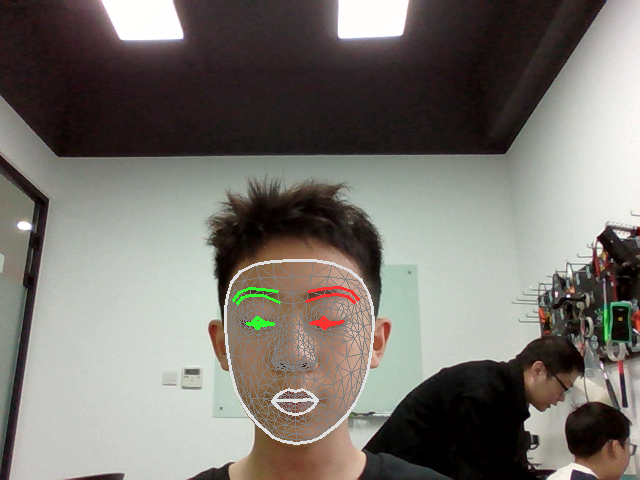
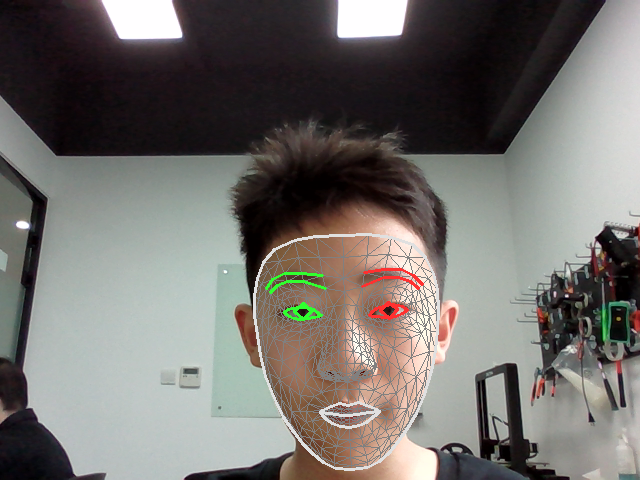
multi-threaded test.py, didn't do video flow, still had glitches

diff --git a/test.py b/test.py
@@ -1,3 +1,146 @@
+from tkinter import *
+from PIL import Image, ImageTk
 import time
-timestr = time.strftime("%H:%M:%S")
-print(timestr)
+import cv2
+import mediapipe as mp
+import math
+import threading
+
+data = "睁眼了"
+
+def gui():
+    window = Tk()
+    window.geometry("1000x800")
+
+    # The title bar
+    frame = Frame(window, width=1000, height=100)
+    img = Image.open("title.jpg")
+    reimg = img.resize((1000, 100))
+    newimg = ImageTk.PhotoImage(reimg)
+    # The video stream shown
+    frame2 = Frame(window, width=640, height=480)
+    img2 = Image.open("image.png")
+    newimg2 = ImageTk.PhotoImage(img2)
+    # pack the title bar
+    frame.pack(fill=BOTH, expand=True)
+    label1 = Label(frame, image=newimg)
+    label1.pack()
+    # pack the video stream
+    frame2.place(rely=0.5, relx=0.02, anchor=W)
+    label2 = Label(frame2, image=newimg2)
+    label2.pack()
+    # create and pack the results
+    label3 = Label(window, text=data, font=('Arial', 25), fg="#f00")
+    label3.place(rely=0.5, relx=0.95, anchor=E)
+    label4 = Label(window, text="状态:", font=('Arial', 25))
+    label4.place(rely=0.5, relx=0.8, anchor=E)
+    # create and pack the time
+    timestr = time.strftime("%H:%M:%S")
+    label5 = Label(window, text=timestr, font=('Arial', 10), fg="#555")
+    label5.place(rely=1, relx=1, anchor=SE)
+
+    # loop
+    while True:
+        label3 = Label(window, text=data, font=('Arial', 25), fg="#f00")
+        label3.place(rely=0.5, relx=0.95, anchor=E)
+        timestr = time.strftime("%H:%M:%S")
+        label5 = Label(window, text=timestr, font=('Arial', 10), fg="#555")
+        label5.place(rely=1, relx=1, anchor=SE)
+        window.update()
+
+    window.mainloop()
+
+
+def core():
+    def dist(P1, P2):
+        return math.sqrt((abs(P1.x - P2.x) ** 2) + (abs(P1.y - P2.y) ** 2))
+
+    def EAR(P1, P2, P3, P4, P5, P6):
+        P26 = dist(P2, P6)
+        P35 = dist(P3, P5)
+        P14 = dist(P1, P4)
+        return (P26 + P35) / (2 * P14)
+
+    mp_drawing = mp.solutions.drawing_utils
+    mp_drawing_styles = mp.solutions.drawing_styles
+    mp_face_mesh = mp.solutions.face_mesh
+
+    drawing_spec = mp_drawing.DrawingSpec(thickness=1, circle_radius=1)
+    cap = cv2.VideoCapture(0)
+    with mp_face_mesh.FaceMesh(
+            max_num_faces=1,
+            refine_landmarks=True,
+            min_detection_confidence=0.5,
+            min_tracking_confidence=0.5) as face_mesh:
+        while cap.isOpened():
+            success, image = cap.read()
+            if not success:
+                print("Ignoring empty camera frame.")
+                # If loading a video, use 'break' instead of 'continue'.
+                continue
+
+            # To improve performance, optionally mark the image as not writeable to
+            # pass by reference.
+            image.flags.writeable = False
+            image = cv2.cvtColor(image, cv2.COLOR_BGR2RGB)
+            results = face_mesh.process(image)
+
+            # Draw the face mesh annotations on the image.
+            image.flags.writeable = True
+            image = cv2.cvtColor(image, cv2.COLOR_RGB2BGR)
+            if results.multi_face_landmarks:
+                for face_landmarks in results.multi_face_landmarks:
+                    mp_drawing.draw_landmarks(
+                        image=image,
+                        landmark_list=face_landmarks,
+                        connections=mp_face_mesh.FACEMESH_TESSELATION,
+                        landmark_drawing_spec=None,
+                        connection_drawing_spec=mp_drawing_styles
+                        .get_default_face_mesh_tesselation_style())
+                    mp_drawing.draw_landmarks(
+                        image=image,
+                        landmark_list=face_landmarks,
+                        connections=mp_face_mesh.FACEMESH_CONTOURS,
+                        landmark_drawing_spec=None,
+                        connection_drawing_spec=mp_drawing_styles
+                        .get_default_face_mesh_contours_style())
+                    mp_drawing.draw_landmarks(
+                        image=image,
+                        landmark_list=face_landmarks,
+                        connections=mp_face_mesh.FACEMESH_IRISES,
+                        landmark_drawing_spec=None,
+                        connection_drawing_spec=mp_drawing_styles
+                        .get_default_face_mesh_iris_connections_style())
+            # Flip the image horizontally for a selfie-view display.
+
+            left1 = results.multi_face_landmarks[0].landmark[362]
+            left2 = results.multi_face_landmarks[0].landmark[385]
+            left3 = results.multi_face_landmarks[0].landmark[387]
+            left4 = results.multi_face_landmarks[0].landmark[263]
+            left5 = results.multi_face_landmarks[0].landmark[373]
+            left6 = results.multi_face_landmarks[0].landmark[380]
+            leftEar = EAR(left1, left2, left3, left4, left5, left6)
+
+            right1 = results.multi_face_landmarks[0].landmark[33]
+            right2 = results.multi_face_landmarks[0].landmark[160]
+            right3 = results.multi_face_landmarks[0].landmark[158]
+            right4 = results.multi_face_landmarks[0].landmark[133]
+            right5 = results.multi_face_landmarks[0].landmark[153]
+            right6 = results.multi_face_landmarks[0].landmark[144]
+            rightEar = EAR(right1, right2, right3, right4, right5, right6)
+
+            avgEar = (leftEar + rightEar) / 2
+            global data
+            if avgEar < 0.1:
+                data = "闭眼了"
+            else:
+                data = "睁眼了"
+            # cv2.imshow('MediaPipe Face Mesh', cv2.flip(image, 1))
+            cv2.imwrite('image.png', cv2.flip(image, 1))
+            if cv2.waitKey(5) & 0xFF == 27:
+                break
+            # time.sleep(0.1)
+    cap.release()
+
+threading.Thread(target=core, daemon=True).start()
+gui()

diff --git a/gui.py b/gui.py
@@ -19,19 +19,30 @@ frame.pack(fill=BOTH, expand=True)
 label1 = Label(frame, image=newimg)
 label1.pack()
 # pack the video stream
-frame2.pack(side=LEFT, ipadx=30)
+frame2.place(rely=0.5, relx=0.02, anchor=W)
 label2 = Label(frame2, image=newimg2)
 label2.pack()
 # create and pack the results
 data = open('data.txt', 'r')
 str = data.read()
 label3 = Label(window, text=str, font=('Arial', 25), fg="#f00")
-label3.pack(side=RIGHT, ipadx=20, ipady=900)
+label3.place(rely=0.5, relx=0.95, anchor=E)
 label4 = Label(window, text="状态:", font=('Arial', 25))
-label4.pack(side=RIGHT, ipadx=0, ipady=900)
+label4.place(rely=0.5, relx=0.8, anchor=E)
 # create and pack the time
 timestr = time.strftime("%H:%M:%S")
 label5 = Label(window, text=timestr, font=('Arial', 10), fg="#555")
-label5.place(rely=1, relx=1, x=0, y=0, anchor=SE)
+label5.place(rely=1, relx=1, anchor=SE)
+
+# loop
+while True:
+    # data = open('data.txt', 'r')
+    # str = data.read()
+    # label3 = Label(window, text=str, font=('Arial', 25), fg="#f00")
+    # label3.place(rely=0.5, relx=0.95, anchor=E)
+    timestr = time.strftime("%H:%M:%S")
+    label5 = Label(window, text=timestr, font=('Arial', 10), fg="#555")
+    label5.place(rely=1, relx=1, anchor=SE)
+    window.update()
 
 window.mainloop()

diff --git a/core.py b/core.py
@@ -94,5 +94,5 @@ with mp_face_mesh.FaceMesh(
         cv2.imwrite('image.png', cv2.flip(image, 1))
         if cv2.waitKey(5) & 0xFF == 27:
             break
-        time.sleep(0.1)
+        # time.sleep(0.1)
 cap.release()
